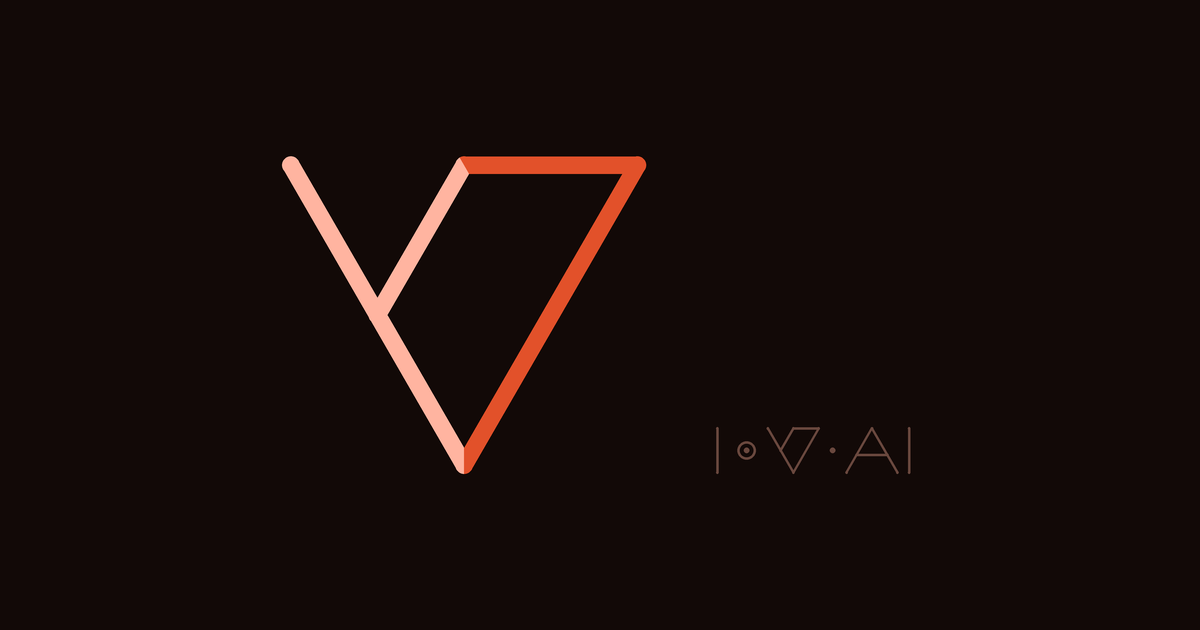
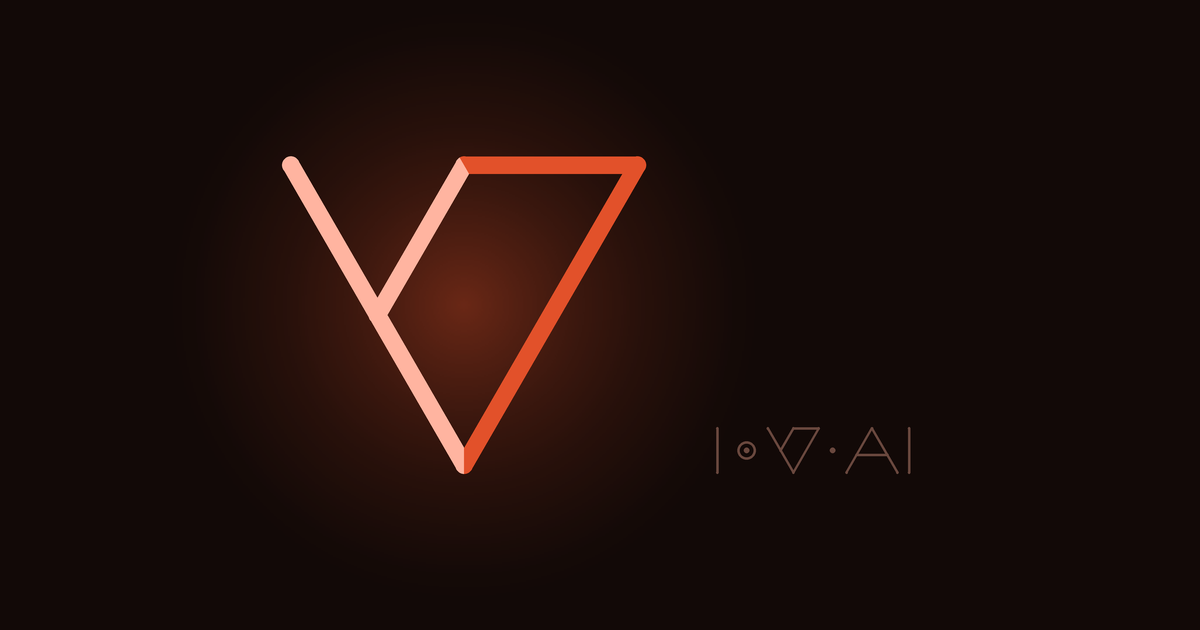
Add the halo to the landing page and the og card
A radial ember wash behind the mark, identical stops in both so the page
and the shared preview match.

On the page it is a body layer rather than an element in the SVG. Putting
it inside meant widening the viewBox to about 250 square to avoid clipping
the falloff, which made the box far taller than the mark and let a vh
clamp shrink the mark on short viewports. As a background it bleeds freely
and costs no layout; sized off the same --mark variable, so it tracks.

The falloff runs over seven stops instead of two. A two-stop ramp reaches
zero with slope still on it, which showed as a faint ring on the dark
ground.

Changed region(s): [[0.2467, 0.2111, 0.5242, 0.754]]

diff --git a/index.html b/index.html
@@ -18,13 +18,23 @@
   html, body { height: 100%; }
   body {
     margin: 0;
-    background: #120907;
+    --mark: min(42vw, 300px);
+    background:
+      radial-gradient(circle calc(var(--mark) * 0.744) at 50% calc(50% - 8px),
+        rgba(226, 81, 42, 0.42) 0%,
+        rgba(226, 81, 42, 0.30) 20%,
+        rgba(226, 81, 42, 0.19) 40%,
+        rgba(226, 81, 42, 0.105) 60%,
+        rgba(226, 81, 42, 0.045) 80%,
+        rgba(226, 81, 42, 0.012) 92%,
+        rgba(226, 81, 42, 0) 100%),
+      #120907;
     display: flex;
     align-items: center;
     justify-content: center;
   }
   .mark {
-    width: min(42vw, 300px);
+    width: var(--mark);
     height: auto;
     display: block;
   }
